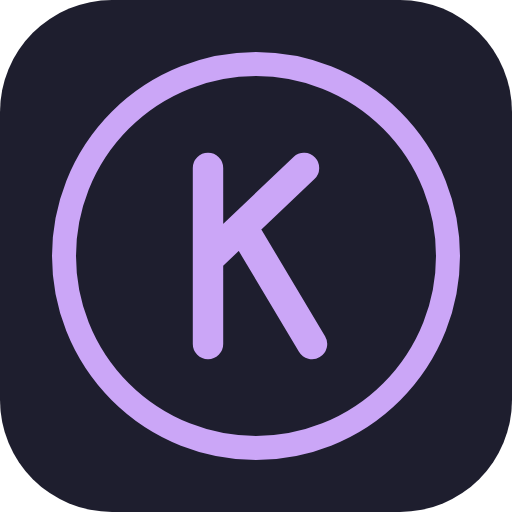
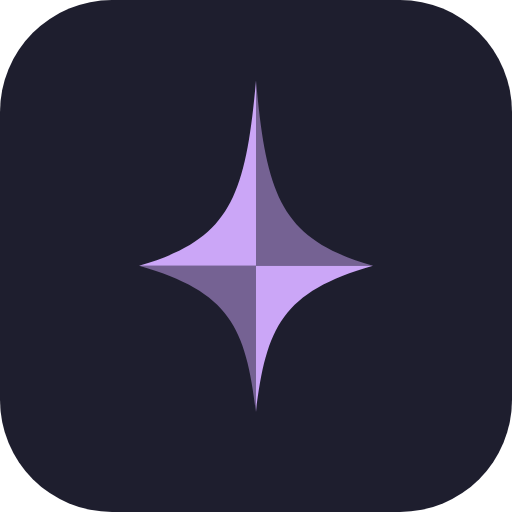
feat(brand): replace the ring mark with the Polaris facet star
The new mark is a four-point star with a long northern ray (Kubera guards
the north), cut into four facets. The in-app mark keeps the facets, which
hold up from about 28px. Favicons (16/32px) use a fuller solid silhouette,
because the facet shading turns to mush at those sizes.

- components/brand/ring-mark.tsx -> polaris-mark.tsx (RingMark -> PolarisMark)
- scripts/render-icons.mjs (`pnpm icons`) regenerates icon.svg, favicon.ico,
  apple-icon.png, the PWA icons and the landing page favicon from one geometry
- landing page nav uses the new mark

Claude-Session: https://claude.ai/code/session_017gamt7eSD689tJLPyVfiL4

Changed region(s): [[0.0938, 0.0938, 0.9062, 0.9062], [0.2812, 0.1875, 0.7188, 0.7812]]

diff --git a/apps/web/src/components/brand/polaris-mark.tsx b/apps/web/src/components/brand/polaris-mark.tsx
@@ -1,0 +1,37 @@
+import { cn } from "@/lib/utils";
+
+/**
+ * Kuberan's mark, "Polaris facet": a four-point star with a long northern ray
+ * (Kubera guards the north), cut into four facets like a gem. Drawn in
+ * `currentColor` (the accent, in the app); two facets are at half strength.
+ *
+ * The facets read from about 28px up. Favicons (16-32px) use the solid
+ * silhouette instead: keep `app/icon.svg`, `app/favicon.ico`, the PWA icons
+ * and `apps/site` in step with this geometry: `pnpm icons`
+ * (`scripts/render-icons.mjs`) regenerates all of them.
+ */
+export function PolarisMark({
+  className,
+  title,
+}: {
+  className?: string;
+  /** Accessible name; omit when the wordmark sits beside it (decorative). */
+  title?: string;
+}) {
+  return (
+    <svg
+      viewBox="3.5 2.5 57 57"
+      fill="currentColor"
+      className={cn("size-8 shrink-0 text-primary", className)}
+      role={title ? "img" : undefined}
+      aria-label={title}
+      aria-hidden={title ? undefined : true}
+    >
+      <path d="M14 31.5C28 27.5 30.4 21 32 3V31.5ZM50 31.5C36 35.5 33.6 41 32 54V31.5Z" />
+      <path
+        d="M32 3C33.6 21 36 27.5 50 31.5H32ZM32 54C30.4 41 28 35.5 14 31.5H32Z"
+        opacity={0.5}
+      />
+    </svg>
+  );
+}

diff --git a/apps/web/src/components/layout/app-header.tsx b/apps/web/src/components/layout/app-header.tsx
@@ -3,7 +3,7 @@
 import Link from "next/link";
 import { usePathname } from "next/navigation";
 import { Eye, EyeOff, LogOut, Plus, Search } from "lucide-react";
-import { RingMark } from "@/components/brand/ring-mark";
+import { PolarisMark } from "@/components/brand/polaris-mark";
 import { HEADER_SLOT_ID } from "@/components/layout/header-slot";
 import { useAuth } from "@/hooks/use-auth";
 import { Avatar, AvatarFallback } from "@/components/ui/avatar";
@@ -51,7 +51,7 @@ export function AppHeader({ onOpenCommandPalette, onNew }: AppHeaderProps) {
         aria-label="Kuberan home"
         className="mr-1.5 flex items-center md:hidden"
       >
-        <RingMark className="size-7" />
+        <PolarisMark className="size-7" />
       </Link>
       <span className="flex-1 truncate text-[15px] font-semibold md:hidden">
         {pageTitle(pathname)}

diff --git a/apps/web/src/app/(oauth)/oauth/consent/page.tsx b/apps/web/src/app/(oauth)/oauth/consent/page.tsx
@@ -10,7 +10,7 @@ import type {
 } from "@/types/api";
 import { isProtocolScope, isWriteScope, scopeLabel } from "@/lib/oauth-scopes";
 import { describeRedirect, followHydraRedirect } from "../redirect";
-import { RingMark } from "@/components/brand/ring-mark";
+import { PolarisMark } from "@/components/brand/polaris-mark";
 import { Badge } from "@/components/ui/badge";
 import { Button } from "@/components/ui/button";
 import { Checkbox } from "@/components/ui/checkbox";
@@ -258,7 +258,7 @@ function OAuthConsent() {
           {clientName.charAt(0).toUpperCase()}
         </Tile>
         <span className="bg-border h-px w-8" />
-        <RingMark className="size-[42px]" />
+        <PolarisMark className="size-[42px]" />
       </div>
       <div>
         <h1 className="font-display text-3xl sm:text-4xl leading-[1.05]">

diff --git a/apps/web/src/components/layout/app-sidebar.tsx b/apps/web/src/components/layout/app-sidebar.tsx
@@ -1,6 +1,6 @@
 "use client";
 
-import { RingMark } from "@/components/brand/ring-mark";
+import { PolarisMark } from "@/components/brand/polaris-mark";
 import Link from "next/link";
 import { usePathname } from "next/navigation";
 import { Search, Settings } from "lucide-react";
@@ -92,7 +92,7 @@ export function AppSidebar({ onOpenCommandPalette }: AppSidebarProps) {
           onClick={handleLinkClick}
           className="flex items-center gap-2.5 px-2 py-2"
         >
-          <RingMark className="size-9" />
+          <PolarisMark className="size-9" />
           <div className="flex flex-col group-data-[collapsible=icon]:hidden">
             <span className="font-display text-[22px] leading-none">
               Kuberan

diff --git a/apps/site/index.html b/apps/site/index.html
@@ -24,9 +24,9 @@
 
   <header class="wrap nav">
     <a class="brand" href="#top" aria-label="Kuberan, home">
-      <svg class="ring" viewBox="0 0 32 32" fill="none" stroke="currentColor" aria-hidden="true">
-        <circle cx="16" cy="16" r="14.25" stroke-width="1.5"/>
-        <path d="M12.5 9v14M12.5 16.2 20 9M15.6 14.4 20.6 23" stroke-width="2" stroke-linecap="round" stroke-linejoin="round"/>
+      <svg class="mark" viewBox="3.5 2.5 57 57" fill="currentColor" aria-hidden="true">
+        <path d="M14 31.5C28 27.5 30.4 21 32 3V31.5ZM50 31.5C36 35.5 33.6 41 32 54V31.5Z"/>
+        <path d="M32 3C33.6 21 36 27.5 50 31.5H32ZM32 54C30.4 41 28 35.5 14 31.5H32Z" opacity=".5"/>
       </svg>
       Kuberan
     </a>

diff --git a/apps/web/src/app/manifest.ts b/apps/web/src/app/manifest.ts
@@ -2,7 +2,7 @@ import type { MetadataRoute } from "next";
 
 /**
  * Web app manifest (D6: installable PWA, no service worker or offline
- * support). The ring mark ships as 192/512 "any" PNGs, a maskable 512 and the
+ * support). The Polaris mark ships as 192/512 "any" PNGs, a maskable 512 and the
  * SVG. A manifest carries a single theme_color; the per-scheme colours live in
  * the `viewport` export of app/layout.tsx. The dark default is used here
  * because the splash screen is drawn from the manifest.

diff --git a/apps/web/src/components/auth/auth-split.tsx b/apps/web/src/components/auth/auth-split.tsx
@@ -1,12 +1,12 @@
 "use client";
 
 import { useEffect, useState, type ReactNode } from "react";
-import { RingMark } from "@/components/brand/ring-mark";
+import { PolarisMark } from "@/components/brand/polaris-mark";
 
 function Wordmark() {
   return (
     <span className="flex items-center gap-2.5">
-      <RingMark className="size-8" />
+      <PolarisMark className="size-8" />
       <span className="text-lg font-semibold tracking-tight">Kuberan</span>
     </span>
   );

diff --git a/apps/site/style.css b/apps/site/style.css
@@ -204,7 +204,7 @@ p {
   font-size: 1.75rem;
   line-height: 1;
 }
-.ring {
+.mark {
   width: 32px;
   height: 32px;
   color: var(--accent);

diff --git a/CLAUDE.md b/CLAUDE.md
@@ -124,7 +124,7 @@ apps/web/src/
 ├── components/
 │   ├── ui/                       # ShadCN UI primitives (~39 files, incl. custom stat-card, currency-input, color-palette)
 │   ├── layout/                   # App sidebar, header, mobile tab bar (Home, Activity, +, Wealth, More), command palette, status chip
-│   ├── brand/                    # RingMark (the logo) and brand assets
+│   ├── brand/                    # PolarisMark (the logo) and brand assets
 │   ├── accounts/                 # Account dialogs (create, edit)
 │   ├── transactions/             # Transaction dialogs (create, edit)
 │   ├── categories/               # Category dialogs (create, edit, delete)

diff --git a/apps/site/README.md b/apps/site/README.md
@@ -11,7 +11,7 @@ apps/site/
   site.js        copy-to-clipboard for the install commands (the page works without it)
   fonts/         Instrument Serif, Geist, Geist Mono (Latin subsets, SIL OFL 1.1)
   img/           WebP screenshots of the demo household, light and dark
-  favicon.svg    the ring mark
+  favicon.svg    the Polaris mark (solid, for small sizes)
   _headers       CSP and cache headers for Netlify / Cloudflare Pages
 ```
 
